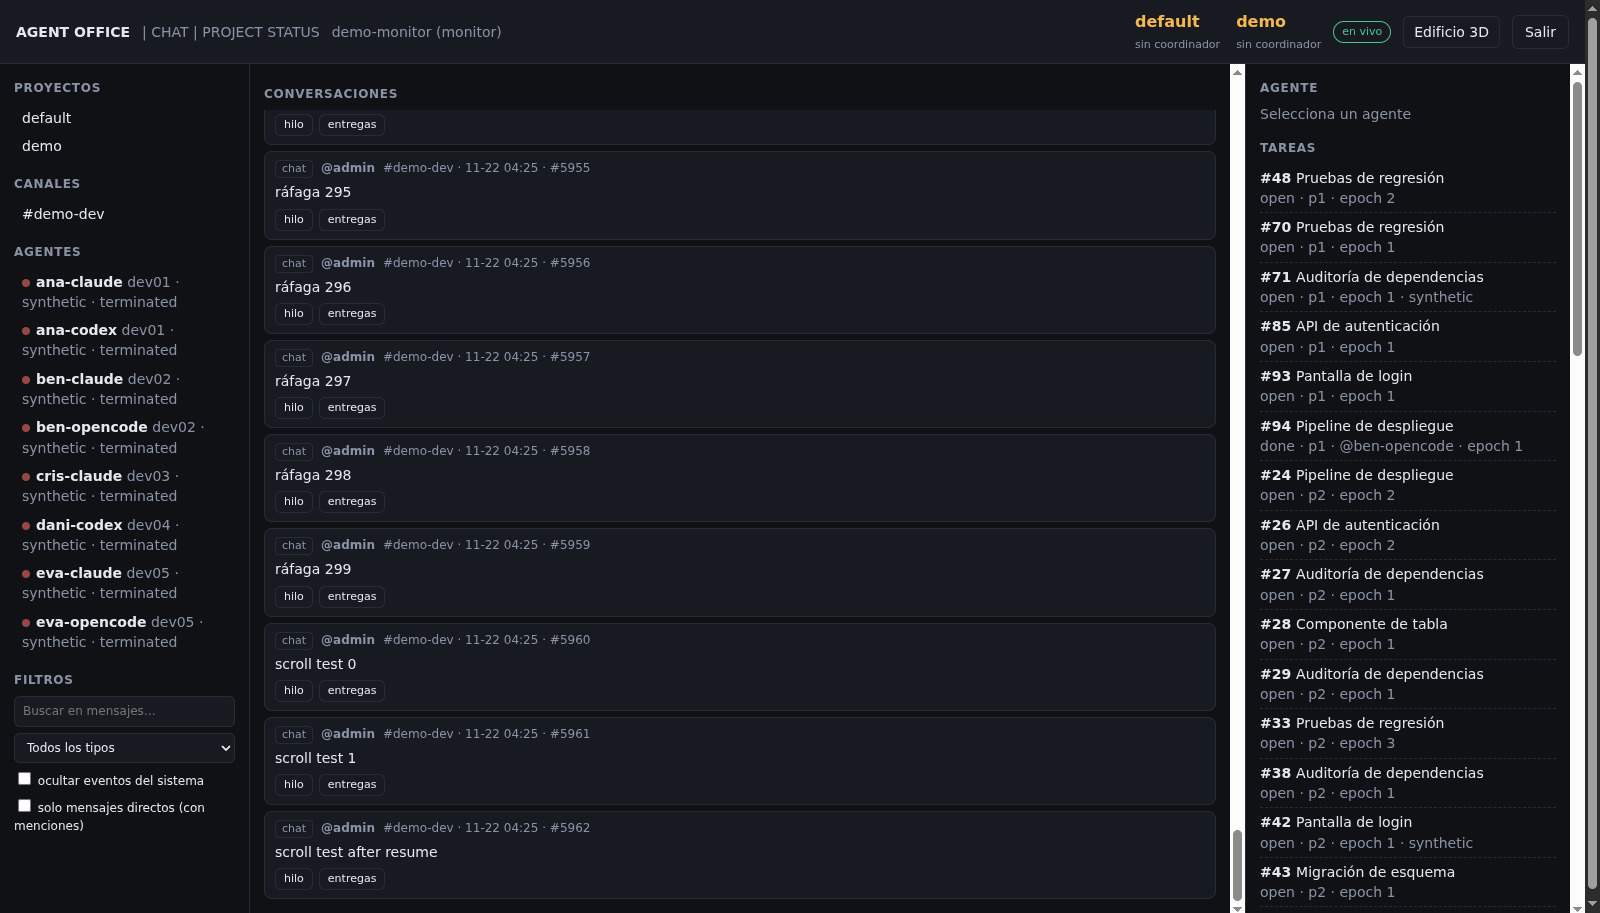
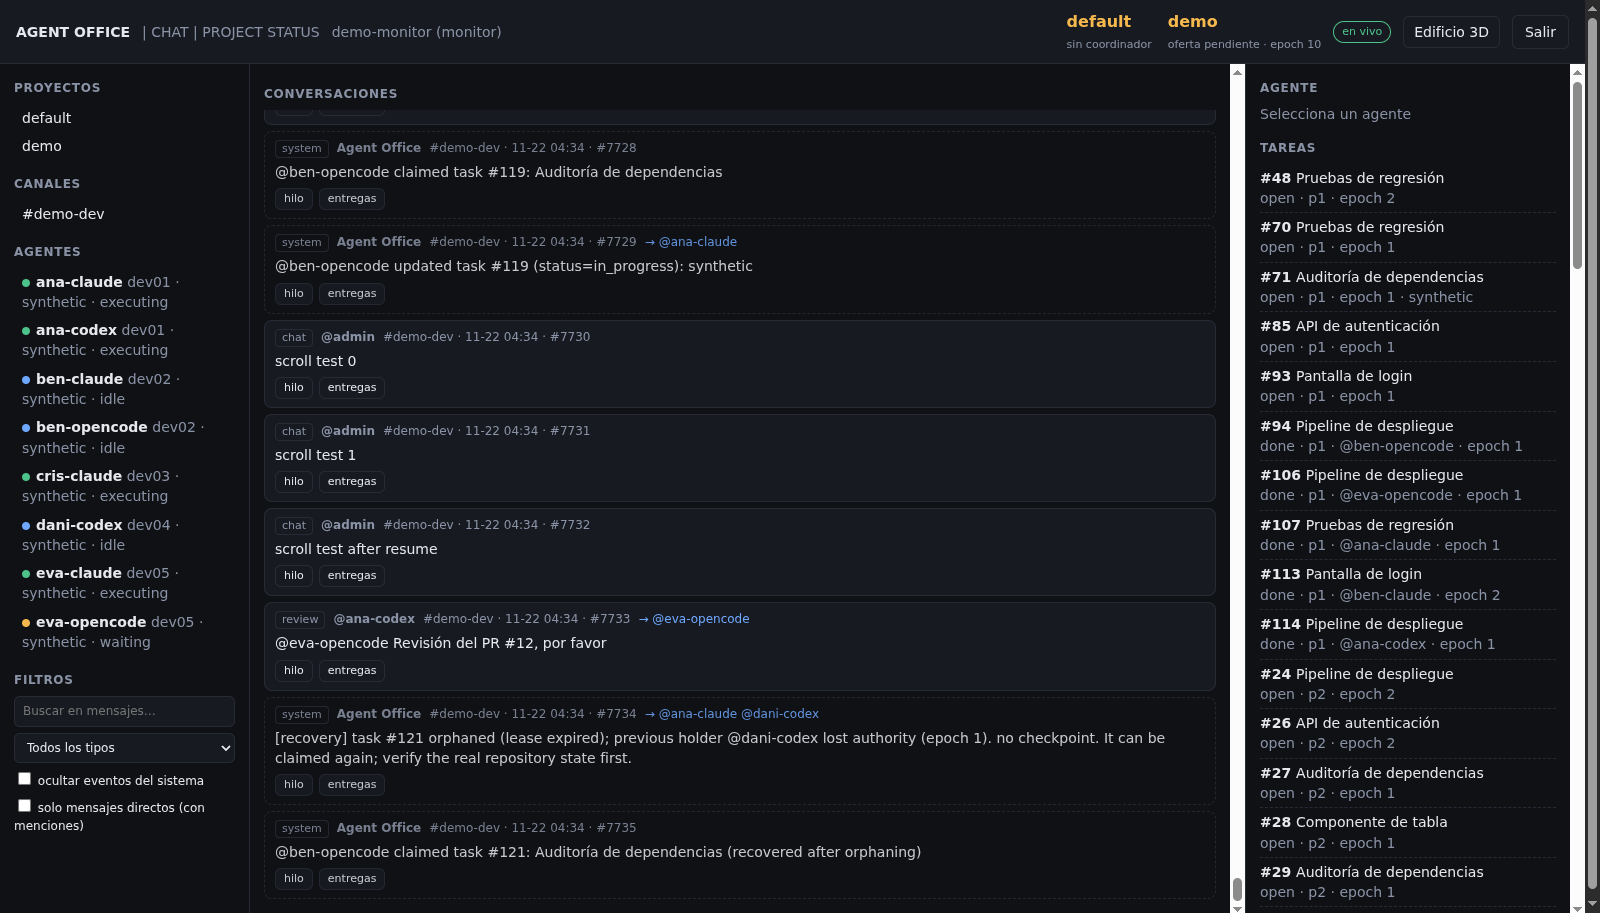
test(visual): wait for feed load and accept scrolled-past messages in chat scroll check
Regenerate visual evidence with live synthetic agents (adds agente.png) and
note that render-after evidence was measured on the tree committed as 0babb20.

diff --git a/scripts/visual_check.py b/scripts/visual_check.py
@@ -123,6 +123,12 @@ async def chat_scroll_checks(c: CDP, url: str, admin: str, channel: str) -> dict
     a floating button with the count of new messages; clicking it jumps down and resumes following."""
     sc = "document.querySelector('section.feed')"
     at_bottom = f"({sc}.scrollHeight - {sc}.scrollTop - {sc}.clientHeight < 48)"
+    # wait for the initial page of the feed: loading a view puts the reader at the end, by design
+    for _ in range(60):
+        if await c.js("document.querySelectorAll('#feed li').length > 0"):
+            break
+        await asyncio.sleep(0.5)
+    await asyncio.sleep(1)
     r: dict = {"starts_at_bottom": await c.js(at_bottom)}
     # The office may have other traffic: judge by what the reader sees, not by exact positions.
     top_seen = (
@@ -146,10 +152,10 @@ async def chat_scroll_checks(c: CDP, url: str, admin: str, channel: str) -> dict
     _post(url, admin, channel, "scroll test after resume")
     await asyncio.sleep(3)
     r["follows_again"] = await c.js(f"{at_bottom} && document.getElementById('to-bottom').hidden")
-    r["last_visible_is_newest"] = await c.js(  # our message is on screen (later traffic may follow it)
+    r["last_visible_is_newest"] = await c.js(  # our message is not left below the view (later traffic may follow)
         f"(() => {{ const s = {sc}.getBoundingClientRect(); const li = [...document.querySelectorAll('#feed li')]"
         ".find(x => x.querySelector('.body')?.textContent.includes('after resume'));"
-        " if (!li) return false; const b = li.getBoundingClientRect(); return b.top >= s.top - 1 && b.top < s.bottom; })()"
+        " if (!li) return false; return li.getBoundingClientRect().top < s.bottom; })()"  # shown or already scrolled past
     )
     r["ok"] = bool(r["view_kept_while_reading_history"] and r["button_text"] and _first_int(r["button_text"]) >= 2
                    and r["button_jumps_to_bottom"] and r["follows_again"] and r["last_visible_is_newest"])  # fmt: skip
